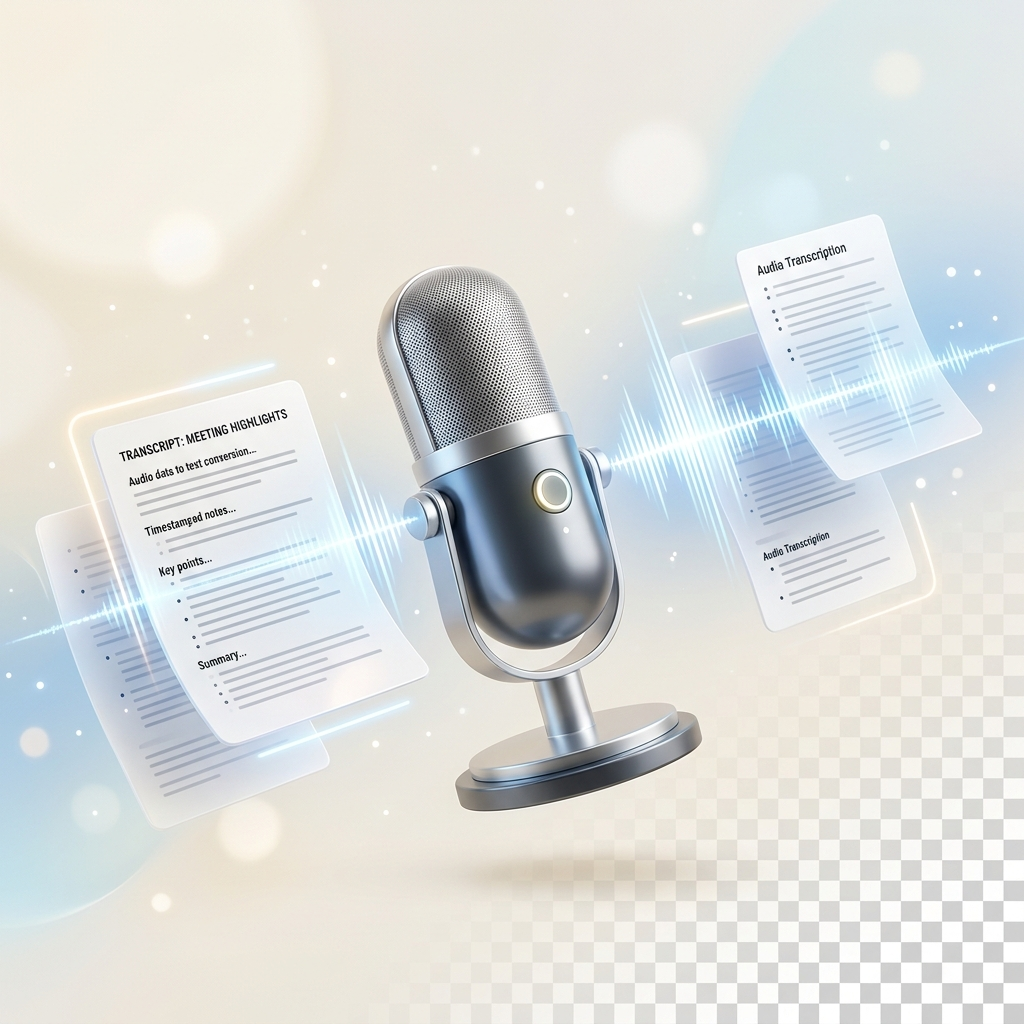
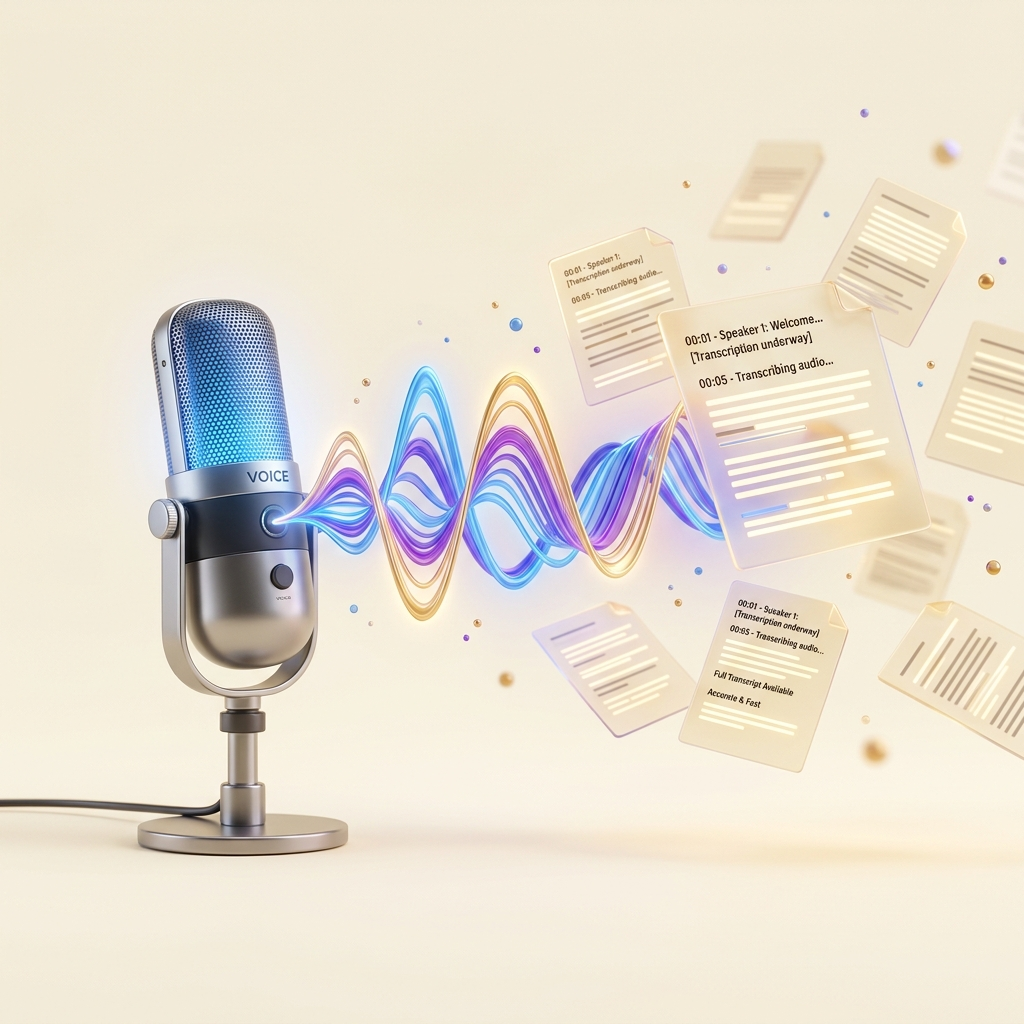
style: fix hero image sizing and replace with improved image

diff --git a/static/styles.css b/static/styles.css
@@ -151,9 +151,8 @@ summary:focus-visible {
 .hero-visual img {
   max-width: min(48vw, 860px);
   max-height: 65vh;
-  width: 100%;
+  width: auto;
   height: auto;
-  object-fit: contain;
   border-radius: 14px;
   border-color: rgba(126, 169, 255, 0.18);
   box-shadow:
